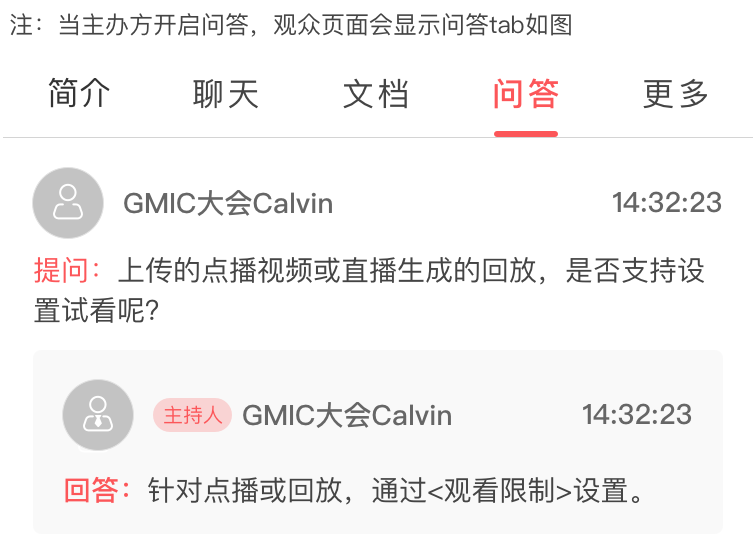
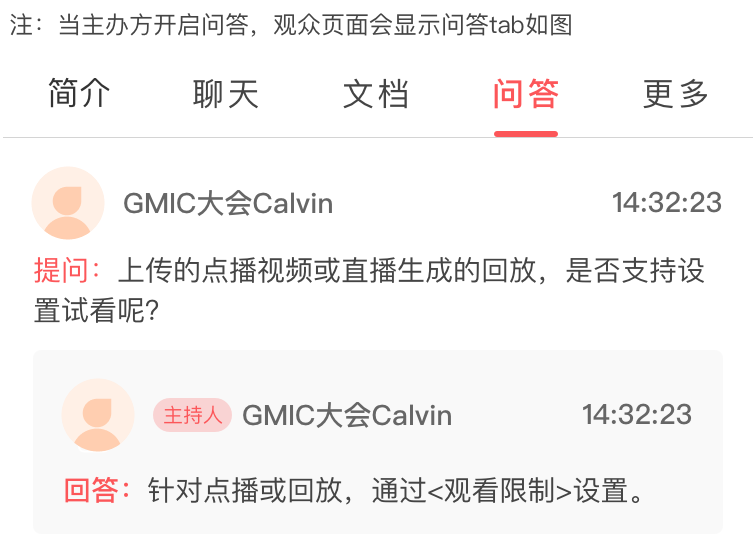
style: 默认头像替换

Changed region(s): [[0.0608, 0.6875, 0.1825, 0.8438], [0.0304, 0.3125, 0.1521, 0.4375]]

diff --git a/src/views/LiveModule/Brands/shareSetting.vue b/src/views/LiveModule/Brands/shareSetting.vue
@@ -282,7 +282,7 @@ export default {
         width: 30px;
         height: 30px;
         border-radius: 2px;
-        background: #999;
+        // background: #999;
         img{
           width: 100%;
           height: 100%;
